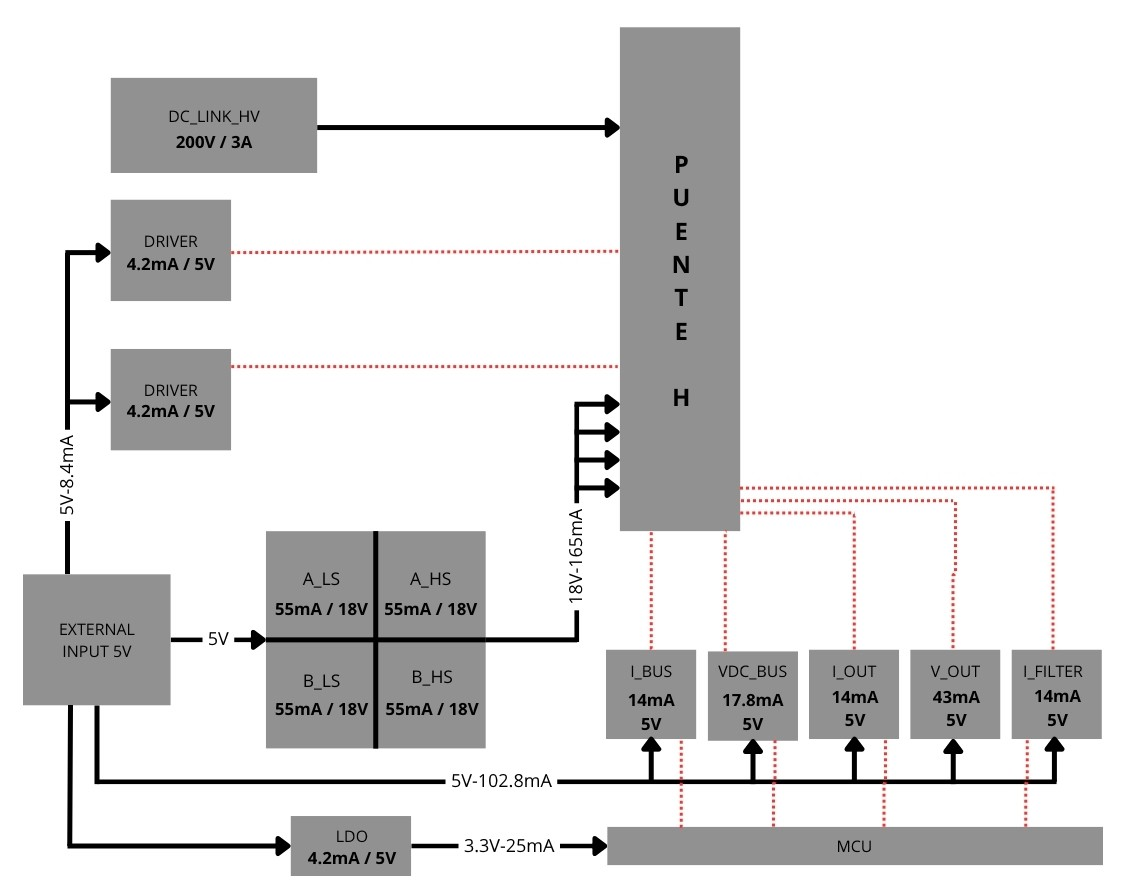
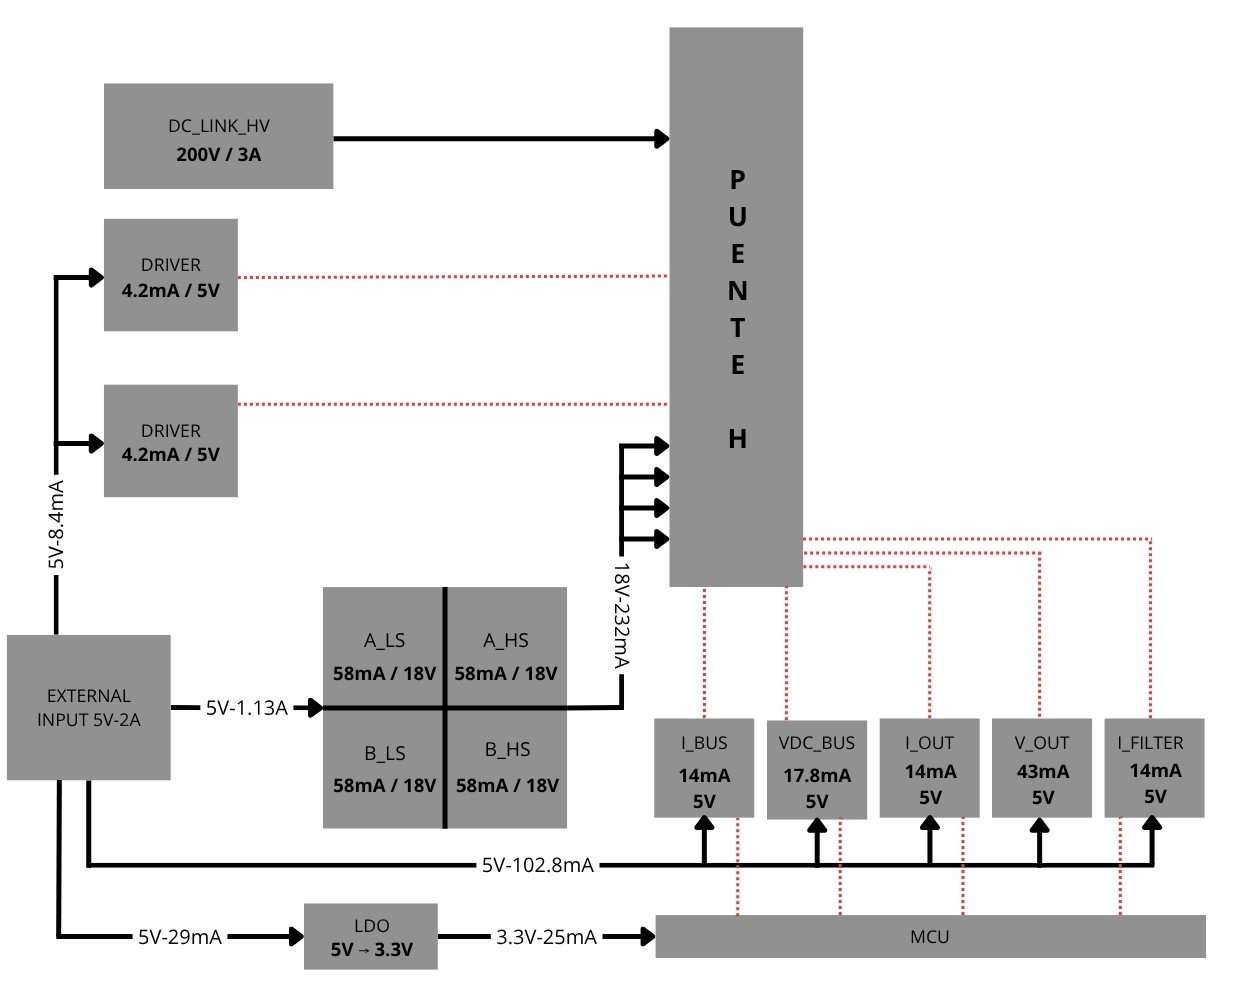
.

Changed region(s): [[0.0, 0.0, 0.9947, 1.0]]

diff --git a/PROYECTO_INVERSOR/DOCUMENTACION/06_referencias_utilizadas.md b/PROYECTO_INVERSOR/DOCUMENTACION/06_referencias_utilizadas.md
@@ -1,0 +1,158 @@
+# Referencias utilizadas en el proyecto
+
+Fecha: 2026-06-05  
+Proyecto: inversor monofasico SPWM con `STM32F030C8T6` y modulo SiC  
+Alcance: referencias tecnicas, datasheets, notas de aplicacion, disenos guia,
+componentes seleccionados y componentes evaluados durante el desarrollo.
+
+## 1. Proposito del documento
+
+Este documento concentra las referencias usadas para construir el esquematico,
+seleccionar componentes, definir conexiones y justificar el firmware SPWM del
+inversor. No reemplaza al BOM ni al esquematico; sirve como indice tecnico para
+saber de donde salio cada decision importante.
+
+Las referencias se dividen en:
+
+```text
+Disenos guia
+Datasheets oficiales
+Componentes seleccionados
+Componentes evaluados
+Firmware y herramientas
+Referencias locales del proyecto
+```
+
+## 2. Disenos guia y notas de aplicacion
+
+| Referencia | Fuente | Uso en el proyecto | Enlace |
+| --- | --- | --- | --- |
+| `TIDA-010938` | Texas Instruments | Referencia principal para arquitectura de inversor/PFC, fuentes aisladas, sensado y estructura de potencia. | https://www.ti.com/tool/TIDA-010938 |
+| `TIDA-010938` en C2000Ware Digital Power SDK | Texas Instruments | Referencia de software y arquitectura de control DC/AC con H-Bridge, incluyendo modulacion bipolar/unipolar. | https://software-dl.ti.com/C2000/c2000_apps_public_sw/c2000ware_sdk/digitalpowersdk/5_03_00_00/html_guide/TIDA-010938.html |
+| `TIDM-HV-1PH-DCAC` | Texas Instruments | Referencia de inversor monofasico DC/AC con filtro de salida y control digital. | https://software-dl.ti.com/C2000/c2000_apps_public_sw/c2000ware_sdk/digitalpowersdk/5_03_00_00/html_guide/TIDM-HV-1PH-DCAC.html |
+| `TIDMCG4` BOM de TIDA-010938 | Texas Instruments | Revision del BOM original del TIDA para inductores PFC, ferritas, conectores y componentes de referencia. | https://www.ti.com/lit/zip/tidmcg4 |
+| `AN4013` | STMicroelectronics | Referencia para timers STM32, PWM, salidas complementarias y dead-time. | https://www.st.com/resource/en/application_note/dm00042534-timers-and-pwm-generation-using-stm32-microcontrollers-stmicroelectronics.pdf |
+| `AN4735` / ejemplos STM32CubeF0 | STMicroelectronics | Referencia de ejemplos de firmware STM32F0 y uso de perifericos HAL. | https://www.st.com/resource/en/application_note/dm00210690-stm32cube-firmware-examples-for-stm32f0-series-stmicroelectronics.pdf |
+
+## 3. Microcontroladores y firmware
+
+| Referencia | Fabricante | Uso | Enlace / ubicacion |
+| --- | --- | --- | --- |
+| `STM32F030C8T6` / `STM32F030C8T6TR` | STMicroelectronics | MCU del inversor real. Genera SPWM, lee ADC y controla `UCC_DISABLE`. | https://www.st.com/resource/en/datasheet/stm32f030c8.pdf |
+| `STM32F030X4 (1).PDF` | STMicroelectronics | Datasheet local consultado para pines, alimentacion y funciones alternas. | `C:\Users\juanv\Downloads\STM32F030X4 (1).PDF` |
+| `STM32 NUCLEO-G474RE` | STMicroelectronics | Tarjeta usada en la prueba de concepto con L298N. | https://www.st.com/en/evaluation-tools/nucleo-g474re.html |
+| `STM32CubeMX` | STMicroelectronics | Configuracion de pines, `TIM1`, ADC y generacion base del firmware. | Proyecto local: `INVERSOR_SPWM_125K.ioc` |
+| `STM32 HAL/CMSIS` | STMicroelectronics / Arm | Librerias generadas para GPIO, ADC, TIM y sistema. | Proyecto local: `INVERSOR_SPWM_125K/Drivers` |
+
+### 3.1 Referencias de firmware creadas en el proyecto
+
+| Archivo | Uso |
+| --- | --- |
+| `INVERSOR_SPWM_125K/Src/spwm_inverter.c` | Modulo propio para generar SPWM bipolar. |
+| `INVERSOR_SPWM_125K/Inc/spwm_inverter.h` | Interfaz publica del modulo SPWM. |
+| `DOCUMENTACION/05_firmware_spwm_stm32.md` | Explicacion del firmware SPWM, pines, duty y ADC. |
+| `PRUEBA0_SPWM_L298N/Core/Src/l298n_spwm.c` | Referencia previa de estilo: tabla seno, modulo separado y funciones `Init/Start/Stop`. |
+
+## 4. Modulo de potencia y drivers
+
+| Referencia | Fabricante | Uso en el proyecto | Enlace / ubicacion |
+| --- | --- | --- | --- |
+| `MSCSM120HM16CT3AG` | Microchip / Microsemi | Modulo principal de potencia, puente H SiC. | Datasheet local: `C:\Users\juanv\Downloads\Microsemi_MSCSM120HM16CT3AG_Full_BridgeSiC_MOSFET_Power_Module_Rv1.0.pdf` |
+| `MSCSM120HM16CT3AG` en Digi-Key | Digi-Key / Microchip | Referencia de compra registrada en Altium. | https://www.digikey.com/es/products/detail/microchip-technology/MSCSM120HM16CT3AG/12350281 |
+| `UCC21540DW` / `UCC21540DWR` | Texas Instruments | Driver aislado doble para manejar high-side y low-side de cada rama. | https://www.ti.com/lit/ds/symlink/ucc21540.pdf |
+| `SN6505BDBVR` | Texas Instruments | Driver push-pull para fuentes aisladas de gate. | https://www.ti.com/lit/ds/symlink/sn6505b.pdf |
+| `750342879` | Wurth Elektronik | Transformador usado con `SN6505B` para generar fuentes aisladas. | https://www.we-online.com/components/products/datasheet/750342879.pdf |
+| `VPT85BD-01A` | iNRCORE / Vanguard | Transformador/fuente aislada registrada en logs de Altium para las fuentes de gate. | Revisar datasheet del proveedor antes de liberar BOM. |
+
+## 5. Sensores y medicion analogica
+
+| Referencia | Fabricante | Uso | Enlace |
+| --- | --- | --- | --- |
+| `AMC1311BDWVR` | Texas Instruments | Amplificador aislado para medicion de tension/bus. Lados `VDD1/GND1` y `VDD2/GND2` aislados. | https://www.ti.com/lit/ds/symlink/amc1311.pdf |
+| `AMC3330QDWERQ1` | Texas Instruments | Amplificador/modulador aislado evaluado para medicion de tension tipo TIDA. | https://www.ti.com/lit/ds/symlink/amc3330-q1.pdf |
+| `ACS724LLCTR-20AB-T` | Allegro MicroSystems | Sensor Hall de corriente, rango `+/-20 A`, salida analogica. | https://www.allegromicro.com/-/media/files/datasheets/acs724-datasheet.pdf |
+| `CC6937S8-5FB040` | CrossChip / proveedor LCSC | Sensor Hall de corriente evaluado/usado para corriente de bus. | Referencia LCSC: https://www.lcsc.com/product-detail/C41421928.html |
+
+### 5.1 Senales ADC asociadas
+
+| Senal | Referencia asociada |
+| --- | --- |
+| `ADC_VDC_BUS_1`, `ADC_VDC_BUS_2` | Salida diferencial del aislamiento de tension, por ejemplo `AMC1311`. |
+| `ADC_IDC_BUS` | Corriente de bus, sensor Hall tipo `CC6937` o equivalente. |
+| `ADC_IOUT`, `ADC_IOUT_FILTER` | Corriente de salida, sensor Hall tipo `ACS724`. |
+| `ADC_VOUT_1`, `ADC_VOUT_2` | Medicion de salida AC o punto diferencial del filtro. |
+
+## 6. Magneticos, inductores y filtro
+
+| Referencia | Fabricante | Uso / decision | Enlace |
+| --- | --- | --- | --- |
+| `PH9455.405NL` | Pulse Electronics | Inductor PFC seleccionado por el usuario para el proyecto. | Revisar datasheet de Pulse antes de compra final. |
+| `Bourns 145453` | Bourns | Inductor PFC original identificado en BOM AC/PFC del TIDA-010938: `87 uH`, `35 A`. No fue el seleccionado final. | BOM TI `TIDMCG4`: https://www.ti.com/lit/zip/tidmcg4 |
+| `Bourns 145451` | Bourns | Inductor PFC identificado en BOM DC/DCE del TIDA: `120 uH`. Referencia, no seleccion final. | BOM TI `TIDMCG4`: https://www.ti.com/lit/zip/tidmcg4 |
+| `FCH1365-101M` | FANGCHENG | Inductor de `100 uH` evaluado para lograr `200 uH` usando dos en serie. | Referencia LCSC registrada en busqueda del proyecto. |
+| `TAI-TECH TMPC1206HP-101MG-D` | TAI-TECH | Alternativa recomendada de `100 uH` para dos en serie, por margen de saturacion. | https://www.lcsc.com/product-detail/Power-Inductors_TAI-TECH_C357256.html |
+| `XRCD75-4R0K/201K` | Xiangru / LCSC | Componente evaluado y descartado para `200 uH > 3 A`; la seccion de `200 uH` no cumple corriente suficiente. | https://www.lcsc.com/product-image/C51484129.html |
+
+## 7. Pasivos y protecciones destacadas
+
+| Referencia / familia | Uso |
+| --- | --- |
+| `MMSZ5250B` | Zener de clamp para fuentes aisladas de gate alrededor de `20 V`. |
+| `SS16` | Diodo Schottky `60 V`, `1 A`, usado en rectificacion de fuentes aisladas. |
+| `MH1608-601Y` | Ferrita Bourns usada como referencia en el TIDA y en filtrado de alimentaciones/senales. |
+| Capacitores film `630 V` o mayor | Usados/evaluados en filtro de potencia y bus, por ejemplo reemplazo de `1 uF` con varios capacitores en paralelo. |
+| Resistencias de gate `RGon = 4 ohm`, `RGoff = 2.4 ohm` | Valores iniciales derivados del datasheet del modulo SiC y capacidad del `UCC21540`. |
+| `RGS = 10k` | Pull-down gate-source para estado seguro del MOSFET. |
+| `RDT = 20k`, `CDT = 1 nF` | Red de dead-time para `UCC21540`, objetivo aproximado `200 ns`. |
+
+## 8. Referencias de compra registradas
+
+Estas referencias aparecen en logs/ECO de Altium o fueron consultadas durante el
+proyecto. Deben verificarse contra el BOM final antes de comprar.
+
+| Componente | Distribuidor / referencia |
+| --- | --- |
+| `STM32F030C8T6TR` | LCSC `C23922`: https://www.lcsc.com/product-detail/ST-Microelectronics_STMicroelectronics-STM32F030C8T6_C23922.html |
+| `SN6505BDBVR` | LCSC `C74518`: https://www.lcsc.com/product-detail/C74518.html |
+| `CC6937S8-5FB040` | LCSC `C41421928`: https://www.lcsc.com/product-detail/C41421928.html |
+| `AMC1311BDWVR` | LCSC `C783598`: https://www.lcsc.com/product-detail/C783598.html |
+| `ACS724LLCTR-20AB-T` | LCSC `C99738`: https://www.lcsc.com/product-detail/Current-Sensors_Allegro-MicroSystems-LLC-ACS724LLCTR-20AB-T_C99738.html |
+| `AMC3330QDWERQ1` | LCSC `C5214212`: https://www.lcsc.com/product-detail/C5214212.html |
+| `UCC21540DW` | Digi-Key: https://www.digikey.com/es/products/detail/texas-instruments/UCC21540DW/9860890 |
+| `MSCSM120HM16CT3AG` | Digi-Key `150-MSCSM120HM16CT3AG-ND`: https://www.digikey.com/es/products/detail/microchip-technology/MSCSM120HM16CT3AG/12350281 |
+
+## 9. Referencias documentales locales
+
+| Documento local | Contenido |
+| --- | --- |
+| `DOCUMENTACION/00_resumen_general.md` | Resumen del proyecto, bloques y estado. |
+| `DOCUMENTACION/01_prueba_concepto_l298n.md` | Prueba de concepto con `STM32G474RE`, `L298N`, filtro LC y mediciones. |
+| `DOCUMENTACION/02_proyecto_real_inversor_125k.md` | Arquitectura del inversor real, pines, ADC y potencia. |
+| `DOCUMENTACION/03_componentes_principales.md` | Lista comentada de componentes principales. |
+| `DOCUMENTACION/04_checklist_integracion_validacion.md` | Validacion en banco y checklist de integracion. |
+| `DOCUMENTACION/05_firmware_spwm_stm32.md` | Firmware SPWM, `TIM1`, duty bipolar y futura lectura ADC. |
+| `DOCUMENTACION/MSCSM120HM16CT3AG_ficha_tecnica.md` | Ficha tecnica organizada del modulo SiC. |
+| `DOCUMENTACION/MSCSM120HM16CT3AG_drivers_filtros_referencias.md` | Driver, fuente aislada, calculos de gate y referencias TI. |
+| `DOCUMENTACION/registro_cambios_diseno_inversor.md` | Cambios realizados frente a la plantilla TIDA. |
+
+## 10. Referencias descartadas o solo evaluadas
+
+| Referencia | Motivo |
+| --- | --- |
+| `STM32F030C8T6` para USB nativo | El micro no tiene periferico USB nativo; PA11/PA12 no se usan como USB en este proyecto. |
+| `XRCD75-4R0K/201K` como inductor de `200 uH > 3 A` | La parte de `200 uH` no cumple la corriente requerida. |
+| Una sola fuente aislada high-side para ambos brazos | No sirve para puente H completo porque `AC_A` y `AC_B` son nodos switch distintos. |
+| Dos high-side compartiendo `GND_HS` | Conectaria indirectamente los nodos switch de ambas ramas; no es correcto. |
+| `PA11` como `PWM_A_L` | No corresponde a `TIM1_CH1N`; se corrigio a `PA7`. |
+
+## 11. Notas de uso
+
+- Este documento es un indice tecnico, no un BOM congelado.
+- Antes de comprar componentes, verificar disponibilidad, encapsulado, huella y
+  rango electrico en el BOM final de Altium.
+- Para componentes de potencia, confirmar datasheet oficial del fabricante,
+  no solo pagina de distribuidor.
+- Para sensores analogicos, confirmar escala real con el divisor, offset y
+  alimentacion usados en el esquematico.
+- Para firmware, la referencia actual es `05_firmware_spwm_stm32.md` y el codigo
+  local `INVERSOR_SPWM_125K/Src/spwm_inverter.c`.

diff --git a/PROYECTO_INVERSOR/DOCUMENTACION/README.md b/PROYECTO_INVERSOR/DOCUMENTACION/README.md
@@ -13,6 +13,7 @@ buscar informacion dispersa en el firmware, imagenes y documentos tecnicos.
 | `03_componentes_principales.md` | Componentes usados en la prueba de concepto y en el proyecto real. |
 | `04_checklist_integracion_validacion.md` | Lista de verificacion para continuar el montaje y validarlo en banco. |
 | `05_firmware_spwm_stm32.md` | Explicacion del firmware SPWM, `TIM1`, duty bipolar, pines PWM y futuras lecturas ADC. |
+| `06_referencias_utilizadas.md` | Indice de datasheets, disenos guia, componentes evaluados y referencias de compra. |
 | `MSCSM120HM16CT3AG_ficha_tecnica.md` | Ficha tecnica organizada del modulo SiC de puente H. |
 | `MSCSM120HM16CT3AG_drivers_filtros_referencias.md` | Driver de compuerta, fuente aislada y calculos de referencia. |
 | `registro_cambios_diseno_inversor.md` | Cambios de diseno frente a la plantilla TIDA y decisiones tecnicas. |